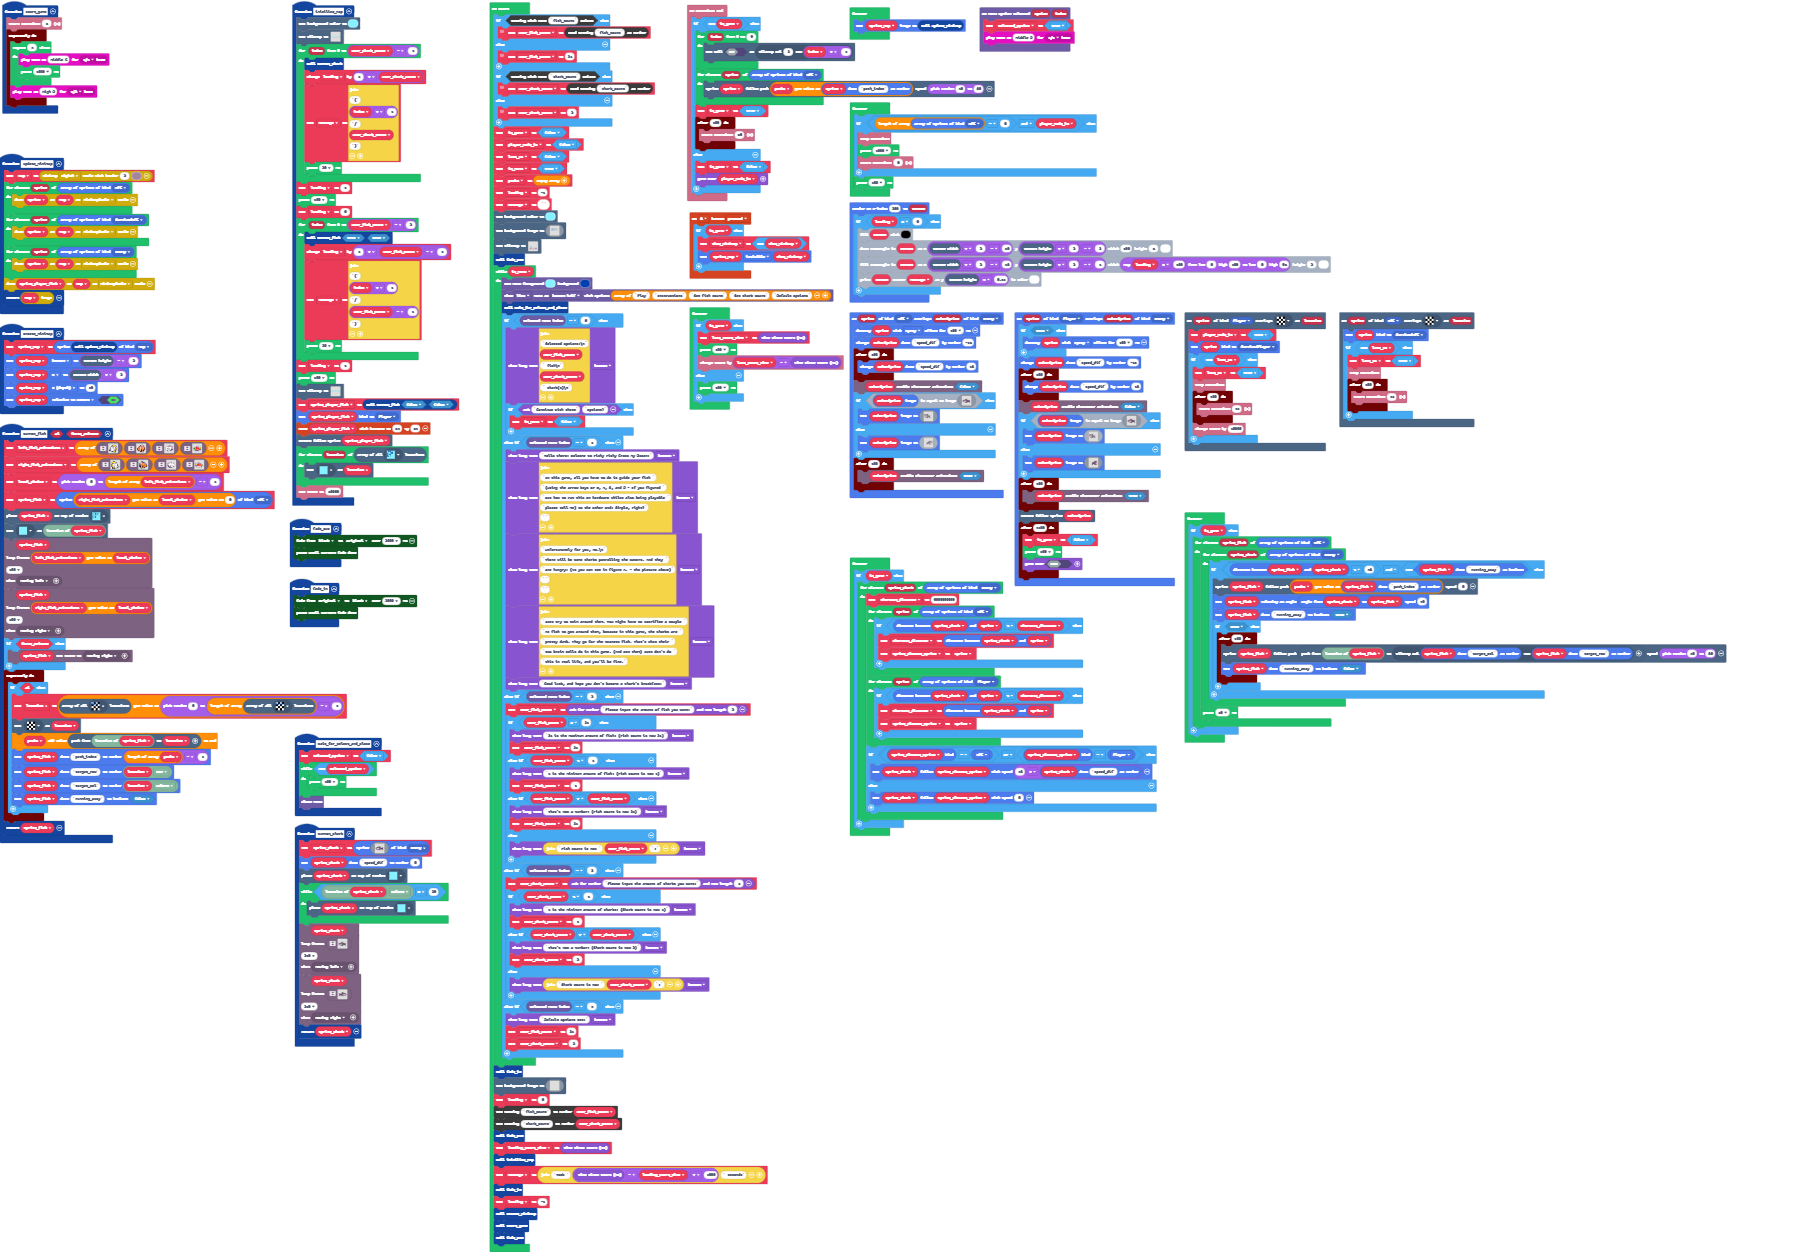
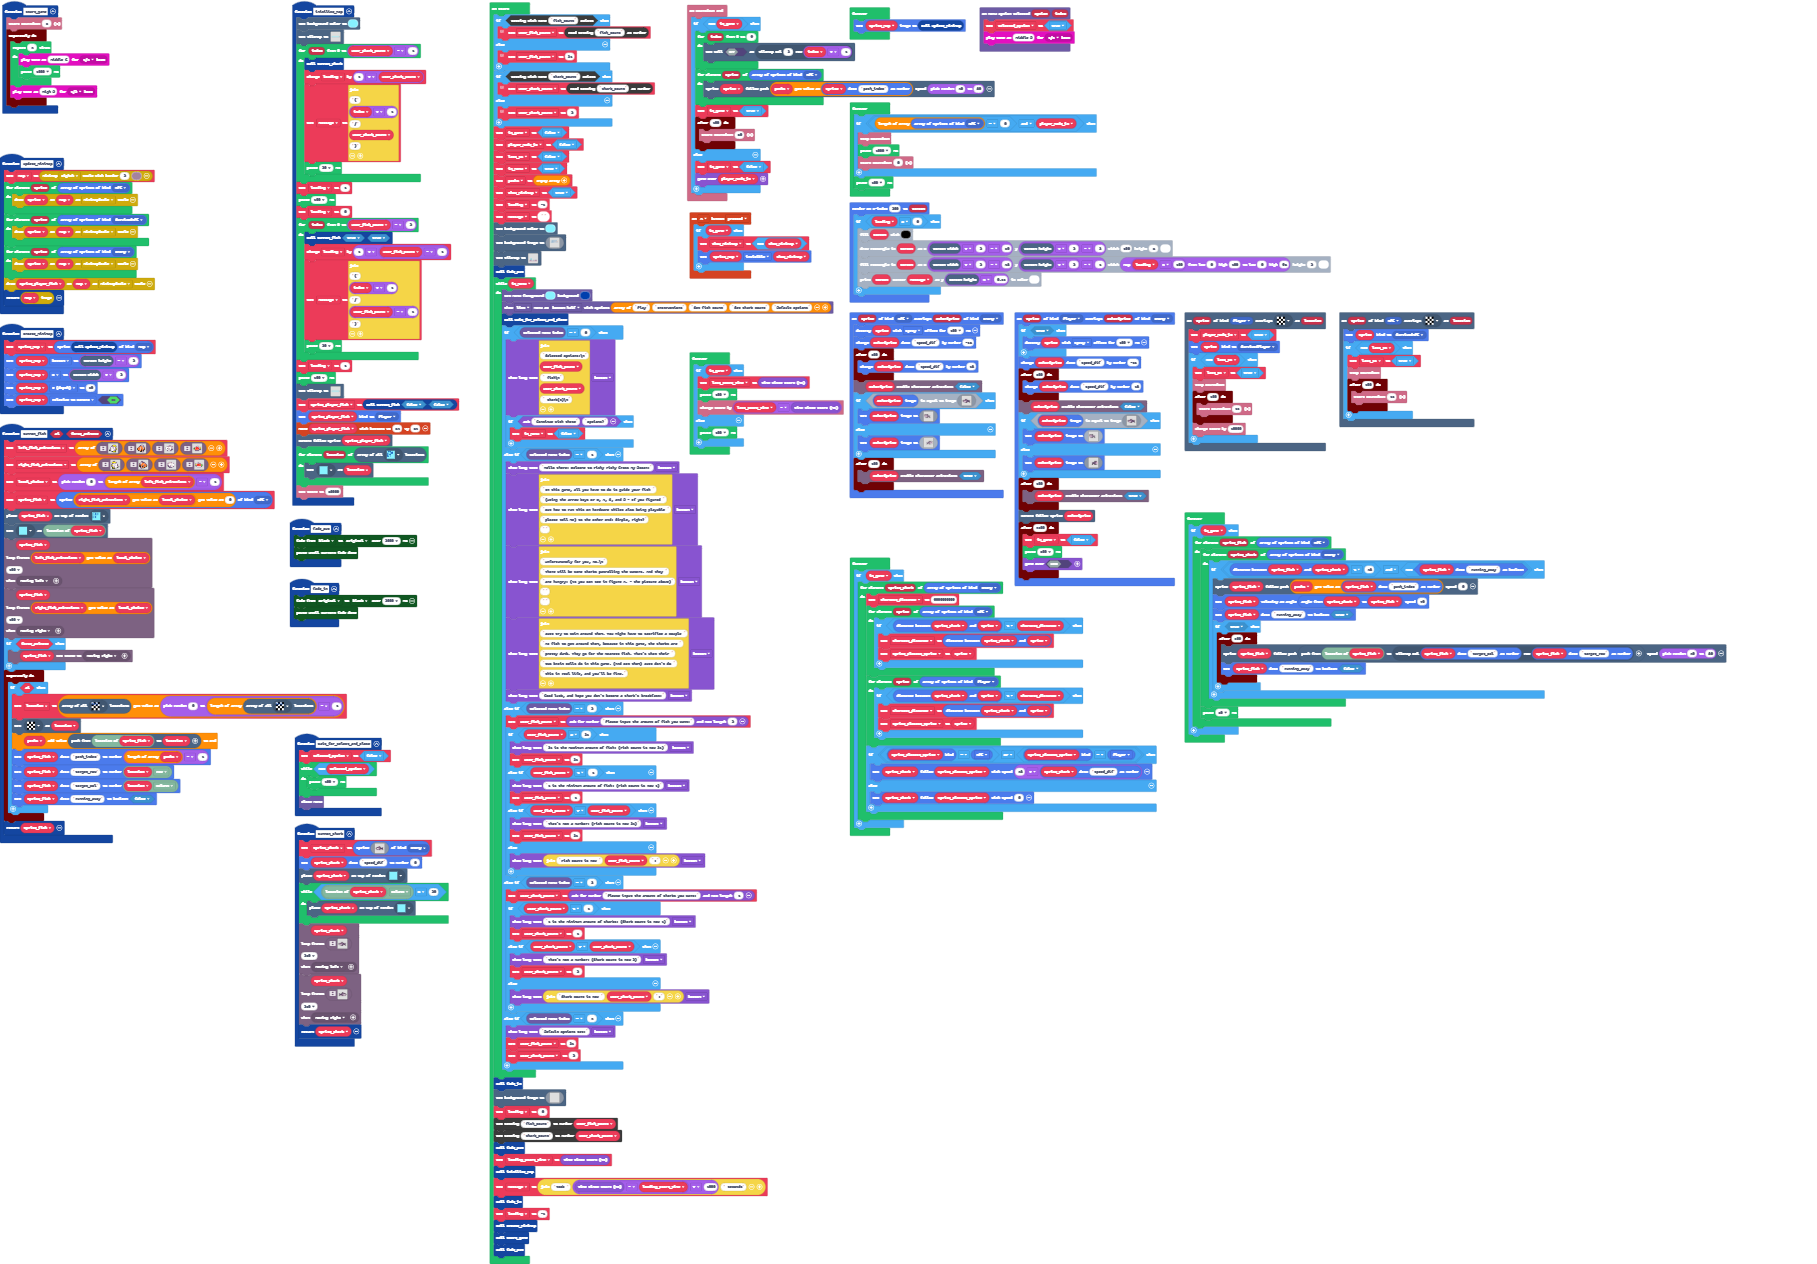
Need a clean state before branching off

Changed region(s): [[0.0, 0.0, 0.9554, 0.9657], [0.0, 0.0312, 0.0616, 0.0935], [0.5548, 0.0, 0.5856, 0.0312]]

diff --git a/main.ts b/main.ts
@@ -4,12 +4,6 @@ namespace SpriteKind {
     export const SurvivedPlayer = SpriteKind.create()
     export const SurvivedNPC = SpriteKind.create()
 }
-controller.B.onEvent(ControllerButtonEvent.Pressed, function () {
-    if (in_game) {
-        show_minimap = !(show_minimap)
-        sprite_map.setFlag(SpriteFlag.Invisible, show_minimap)
-    }
-})
 function summon_fish (ai: boolean, force_animate: boolean) {
     left_fish_animations = [[img`
         . . . . . . . . . . . . . . . . 
@@ -197,6 +191,12 @@ scene.onOverlapTile(SpriteKind.NPC, myTiles.tile12, function (sprite, location) 
         timer.after(100, function () {
             info.startCountdown(15)
         })
+    }
+})
+controller.A.onEvent(ControllerButtonEvent.Pressed, function () {
+    if (in_game) {
+        show_minimap = !(show_minimap)
+        sprite_map.setFlag(SpriteFlag.Invisible, show_minimap)
     }
 })
 function fade_out () {
@@ -555,15 +555,15 @@ let sprite_shark: Sprite = null
 let map: minimap.Minimap = null
 let sprite_player_fish: Sprite = null
 let selected_option = false
+let sprite_map: Sprite = null
 let location: tiles.Location = null
 let sprite_fish: Sprite = null
 let local_choice = 0
 let right_fish_animations: Image[][] = []
 let left_fish_animations: Image[][] = []
-let sprite_map: Sprite = null
-let show_minimap = false
 let message = ""
 let loading = 0
+let show_minimap = false
 let paths: tiles.Location[][] = []
 let last_15 = false
 let player_made_it = false
@@ -589,6 +589,7 @@ player_made_it = false
 last_15 = false
 let in_menu = true
 paths = []
+show_minimap = true
 loading = -1
 message = ""
 scene.setBackgroundColor(9)
